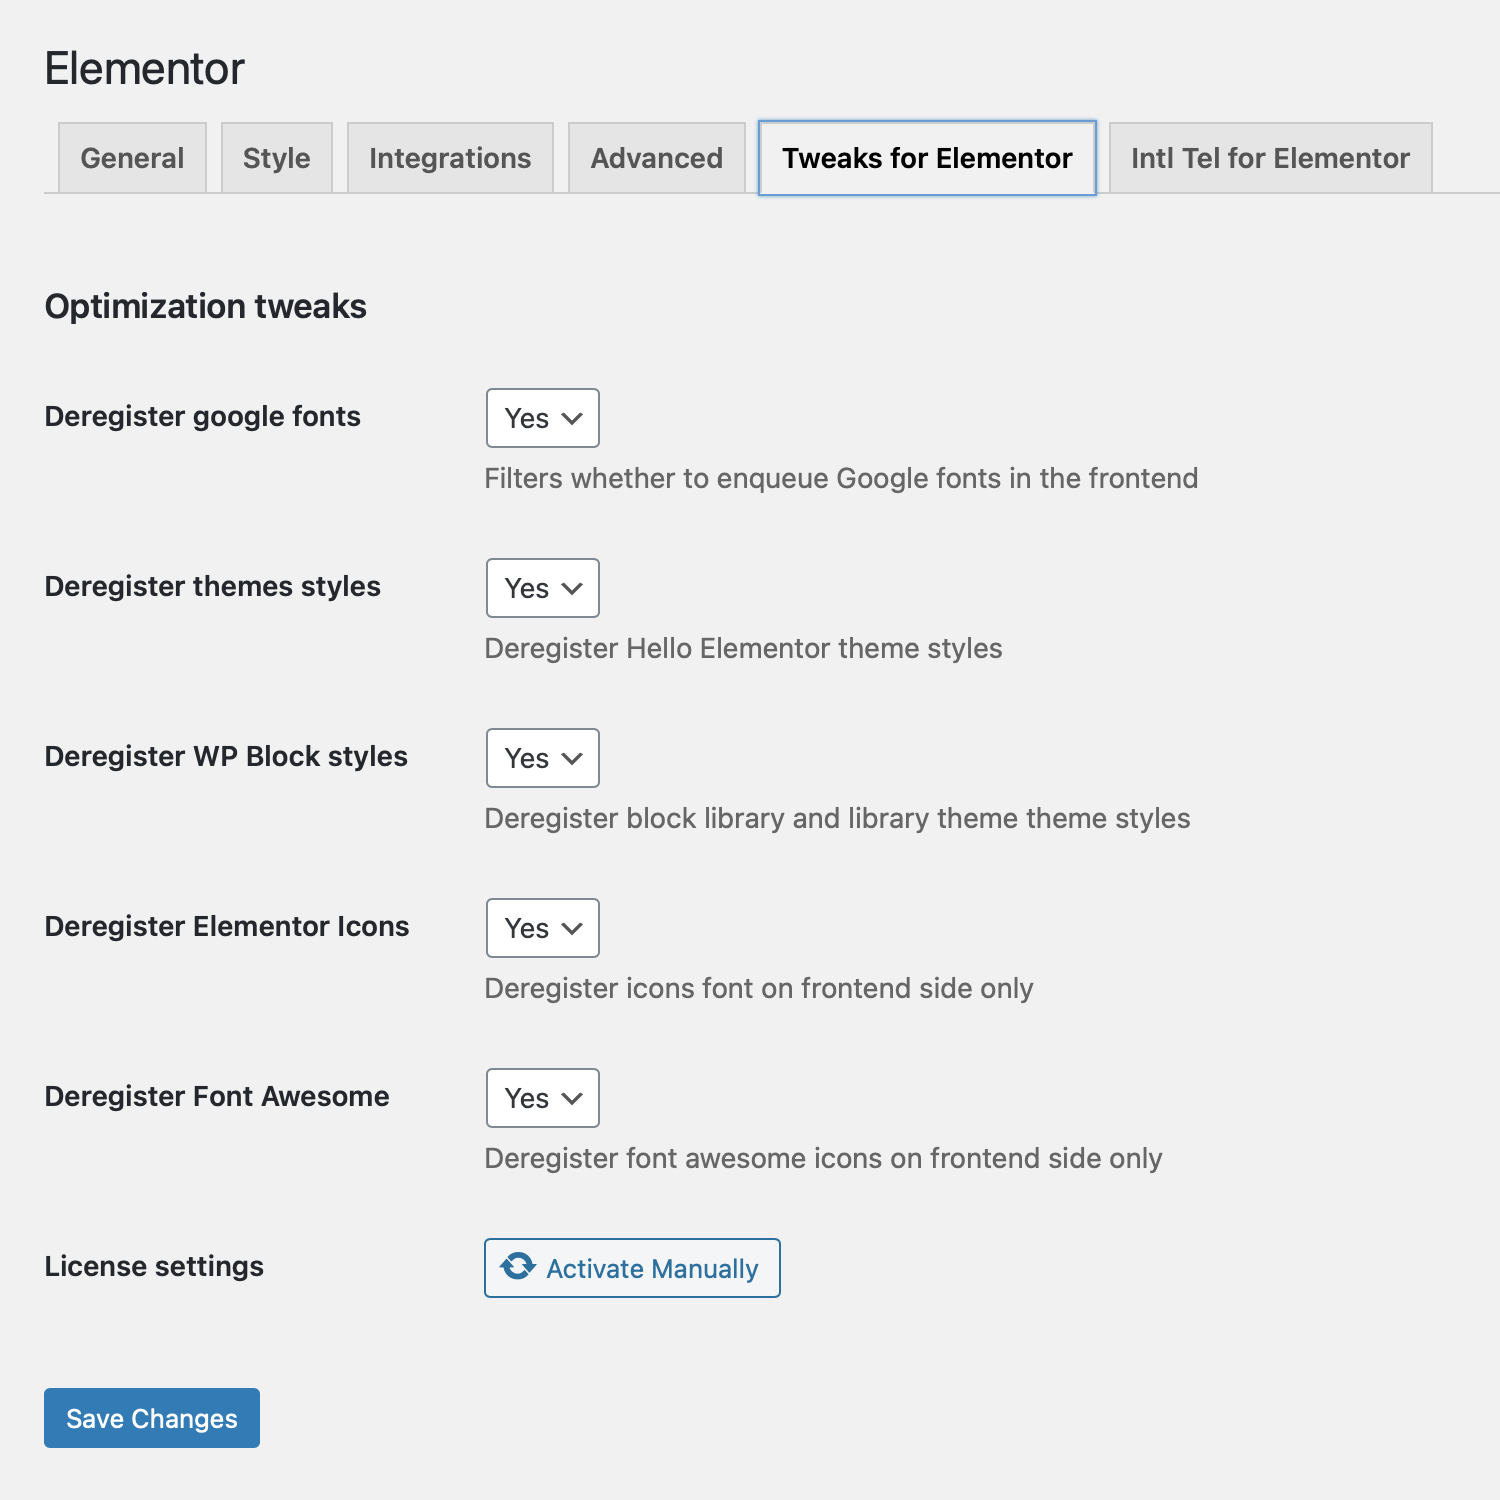
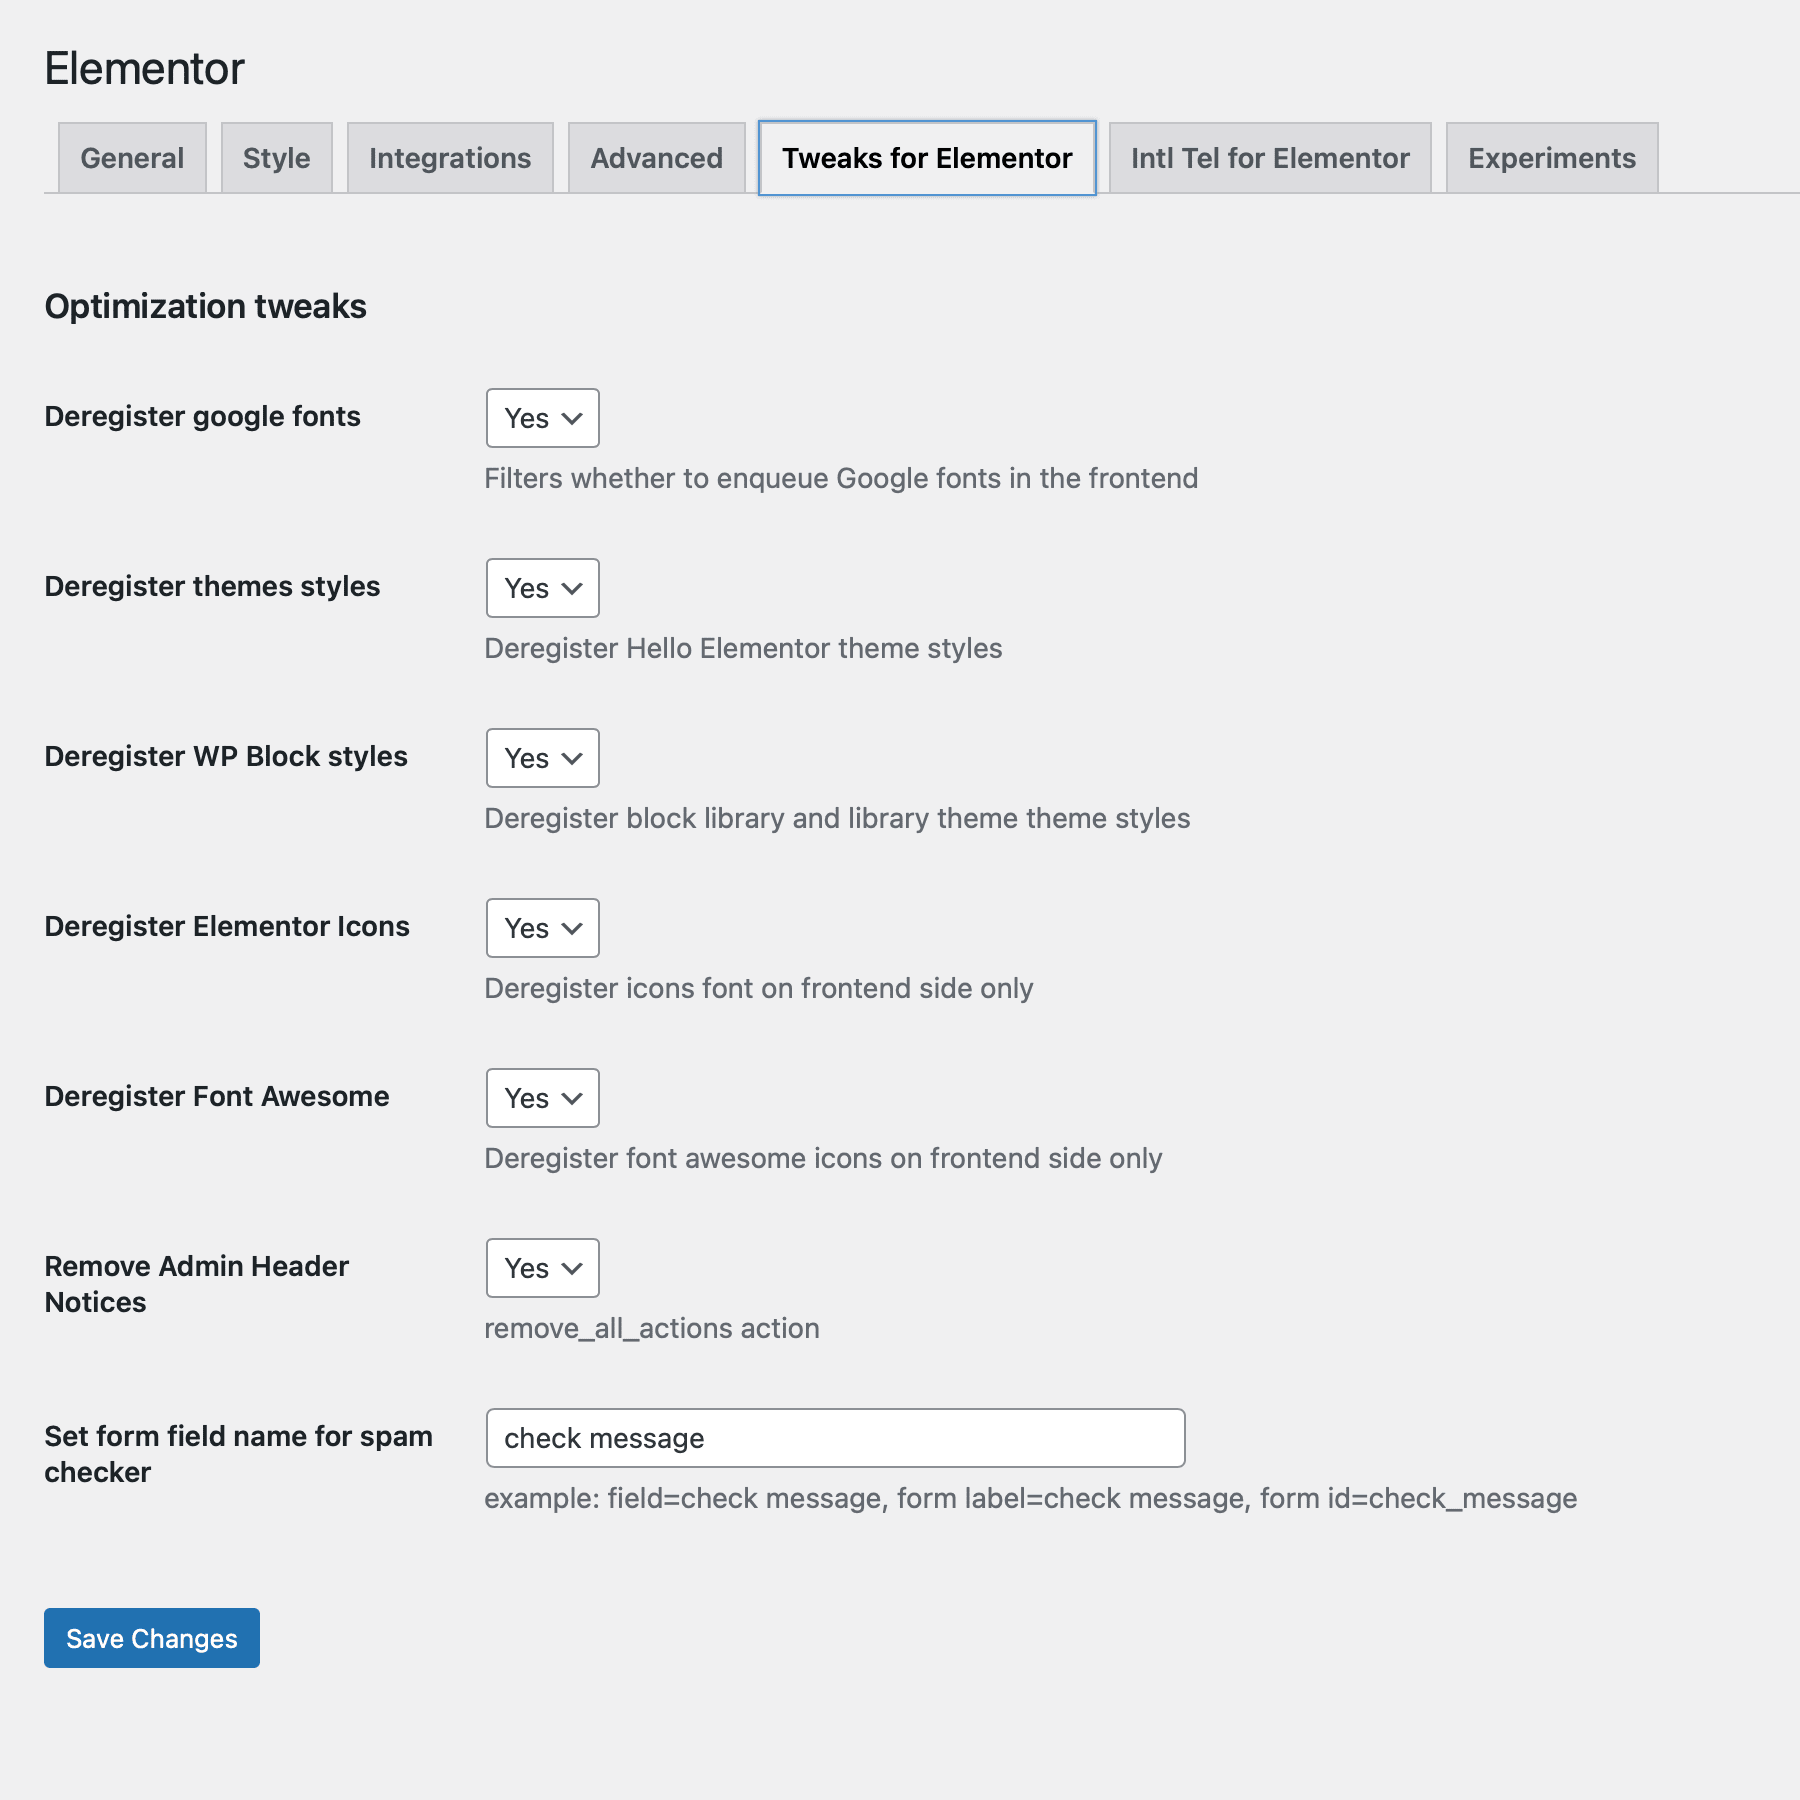
chore--plugin--release * New: Spam checker with mail skipping * New: Hide admin header notices * Tweak: License option removed from the settings

diff --git a/includes/class-options.php b/includes/class-options.php
@@ -48,7 +48,7 @@ class Options {
 					WPBRO_TWEAKS_FOR_ELEMENTOR_SLUG . '_optimization' => array(
 						'label'  => __( 'Optimization tweaks', 'tweaks-for-elementor' ),
 						'fields' => array(
-							WPBRO_TWEAKS_FOR_ELEMENTOR_SLUG . '_google_fonts' => array(
+							WPBRO_TWEAKS_FOR_ELEMENTOR_SLUG . '_google_fonts'    => array(
 								'label'      => __( 'Deregister google fonts', 'tweaks-for-elementor' ),
 								'field_args' => array(
 									'desc'    => __( 'Filters whether to enqueue Google fonts in the frontend', 'tweaks-for-elementor' ),
@@ -59,7 +59,7 @@ class Options {
 									),
 								),
 							),
-							WPBRO_TWEAKS_FOR_ELEMENTOR_SLUG . '_hello_theme'  => array(
+							WPBRO_TWEAKS_FOR_ELEMENTOR_SLUG . '_hello_theme'     => array(
 								'label'      => __( 'Deregister themes styles', 'tweaks-for-elementor' ),
 								'field_args' => array(
 									'desc'    => __( 'Deregister Hello Elementor theme styles', 'tweaks-for-elementor' ),
@@ -70,7 +70,7 @@ class Options {
 									),
 								),
 							),
-							WPBRO_TWEAKS_FOR_ELEMENTOR_SLUG . '_wp_block'     => array(
+							WPBRO_TWEAKS_FOR_ELEMENTOR_SLUG . '_wp_block'        => array(
 								'label'      => __( 'Deregister WP Block styles', 'tweaks-for-elementor' ),
 								'field_args' => array(
 									'desc'    => __( 'Deregister block library and library theme theme styles', 'tweaks-for-elementor' ),
@@ -81,7 +81,7 @@ class Options {
 									),
 								),
 							),
-							WPBRO_TWEAKS_FOR_ELEMENTOR_SLUG . '_elementor_icons'     => array(
+							WPBRO_TWEAKS_FOR_ELEMENTOR_SLUG . '_elementor_icons' => array(
 								'label'      => __( 'Deregister Elementor Icons', 'tweaks-for-elementor' ),
 								'field_args' => array(
 									'desc'    => __( 'Deregister icons font on frontend side only', 'tweaks-for-elementor' ),
@@ -92,7 +92,7 @@ class Options {
 									),
 								),
 							),
-							WPBRO_TWEAKS_FOR_ELEMENTOR_SLUG . '_fa_icons'     => array(
+							WPBRO_TWEAKS_FOR_ELEMENTOR_SLUG . '_fa_icons'        => array(
 								'label'      => __( 'Deregister Font Awesome', 'tweaks-for-elementor' ),
 								'field_args' => array(
 									'desc'    => __( 'Deregister font awesome icons on frontend side only', 'tweaks-for-elementor' ),
@@ -103,7 +103,7 @@ class Options {
 									),
 								),
 							),
-							WPBRO_TWEAKS_FOR_ELEMENTOR_SLUG . '_admin_notices'     => array(
+							WPBRO_TWEAKS_FOR_ELEMENTOR_SLUG . '_admin_notices'   => array(
 								'label'      => __( 'Remove Admin Header Notices', 'tweaks-for-elementor' ),
 								'field_args' => array(
 									'desc'    => __( 'remove_all_actions action', 'tweaks-for-elementor' ),
@@ -112,6 +112,13 @@ class Options {
 										''     => __( 'No', 'tweaks-for-elementor' ),
 										'true' => __( 'Yes', 'tweaks-for-elementor' ),
 									),
+								),
+							),
+							WPBRO_TWEAKS_FOR_ELEMENTOR_SLUG . '_antispam_field'  => array(
+								'label'      => __( 'Set form field name for spam checker', 'tweaks-for-elementor' ),
+								'field_args' => array(
+									'desc' => __( 'example: field=check message, form label=check message, form id=check_message', 'tweaks-for-elementor' ),
+									'type' => 'text',
 								),
 							),
 						),
@@ -128,14 +135,14 @@ class Options {
 					$key_intl . '_intl_settings' => array(
 						'label'  => __( 'Intl Settings', 'tweaks-for-elementor' ),
 						'fields' => array(
-							$key_intl . '_ip_info_api_key'   => array(
+							$key_intl . '_ip_info_api_key'           => array(
 								'label'      => __( 'Ipinfo API key', 'tweaks-for-elementor' ),
 								'field_args' => array(
 									'desc' => __( 'Key for <a href="https://ipinfo.io/" target="_blank" rel="nofollow">Ipinfo API</a>', 'tweaks-for-elementor' ),
 									'type' => 'text',
 								),
 							),
-							$key_intl . '_custom_country_id' => array(
+							$key_intl . '_custom_country_id'         => array(
 								'label'      => __( 'Custom country ID <br><small>(will override IP detected)</small>', 'tweaks-for-elementor' ),
 								'field_args' => array(
 									'desc' => __( 'Country Lang Code, e.g. US. More info <a href="https://en.wikipedia.org/wiki/ISO_3166-1_alpha-2#Officially_assigned_code_elements" target="_blank" rel="nofollow">here</a>', 'tweaks-for-elementor' ),

diff --git a/includes/class-main.php b/includes/class-main.php
@@ -61,8 +61,9 @@ class Main {
 	 * Deregister styles via filters.
 	 */
 	public function tweak_filters() {
-		$google_fonts = $this->get_option( 'google_fonts' );
-		$hello_theme  = $this->get_option( 'hello_theme' );
+		$google_fonts   = $this->get_option( 'google_fonts' );
+		$hello_theme    = $this->get_option( 'hello_theme' );
+		$antispam_field = $this->get_option( 'antispam_field' );
 
 		if ( $google_fonts ) {
 			/**
@@ -86,14 +87,24 @@ class Main {
 			add_filter( 'hello_elementor_enqueue_style', '__return_false' );
 			add_filter( 'hello_elementor_enqueue_theme_style', '__return_false' );
 		}
+
+		if ( $antispam_field ) {
+			/**
+			 * Skip email if spam field value exist
+			 *
+			 * @since 1.0.4
+			 */
+			add_filter( 'pre_wp_mail', array( $this, 'tweak_antispam' ), 10, 2 );
+		}
 	}
 
 	/**
 	 * Dequeue styles and scripts.
 	 */
 	public function tweak_enqueue_scripts() {
-		$wp_block = $this->get_option( 'wp_block' );
-		$hello_theme  = $this->get_option( 'hello_theme' );
+		$wp_block    = $this->get_option( 'wp_block' );
+		$hello_theme = $this->get_option( 'hello_theme' );
+		$spam_field  = $this->get_option( 'antispam_field' );
 
 		if ( $wp_block ) {
 			/**
@@ -137,11 +148,23 @@ class Main {
 			wp_add_inline_style( 'elementor-frontend', 'body{margin:0}' );
 		}
 
-		$api_key    = $this->get_option( 'intl_ip_info_api_key' );
-		$country_id = $this->get_option( 'intl_custom_country_id' );
+		if ( $spam_field ) {
+			/**
+			 * Inline css for spam field visibility
+			 *
+			 * @since 1.0.4
+			 * @access public
+			 */
+			$spam_css   = '{display:none!important}';
+			$spam_class = '.elementor-field-group-' . str_replace( ' ', '_', $spam_field );
+			wp_add_inline_style( 'elementor-frontend', $spam_class . $spam_css );
+		}
+
+		$api_key       = $this->get_option( 'intl_ip_info_api_key' );
+		$country_id    = $this->get_option( 'intl_custom_country_id' );
 		$country_field = $this->get_option( 'intl_custom_country_field_name' );
 
-		$data       = [];
+		$data = [];
 		if ( ! empty( $api_key ) or ! empty( $country_id ) ) {
 			/**
 			 * Register styles if !empty options intl_ip_info_api_key or intl_custom_country_id
@@ -203,6 +226,38 @@ class Main {
 			foreach ( array( 'solid', 'regular', 'brands' ) as $style ) {
 				wp_deregister_style( 'elementor-icons-fa-' . $style );
 			}
+		}
+	}
+
+	/**
+	 * Check if spam message exist and skip wp_mail()
+	 *
+	 * @param $null
+	 * @param array $wp_mail_input
+	 *
+	 * @return bool|mixed
+	 * @since 1.0.4
+	 */
+	public function tweak_antispam( $null, array $wp_mail_input ) {
+		$spam_field = $this->get_option( 'antispam_field' );
+		$spam_check = '';
+
+		// Parse email content by break line
+		$email_content = explode( '<br>', $wp_mail_input['message'] );
+
+		if ( strpos( $wp_mail_input['message'], $spam_field ) !== false ) {
+			foreach ( $email_content as $field ) {
+				if ( strpos( $field, $spam_field ) !== false ) {
+					$spam_value = explode( $spam_field . ':', $field );
+					$spam_check = trim( $spam_value[1] );
+				}
+			}
+		}
+
+		if ( $spam_check ) {
+			return true;
+		} else {
+			return $null;
 		}
 	}
 }

diff --git a/tweaks-for-elementor.php b/tweaks-for-elementor.php
@@ -9,7 +9,7 @@
  * Plugin Name:       Tweaks for Elementor
  * Plugin URI:        https://wordpress.org/plugins/tweaks-for-elementor/
  * Description:       Tweaks for Elementor is simple plugin with few features to disable the default Fonts and CSS files of Elementor and Hello Elementor Theme
- * Version:           1.0.3
+ * Version:           1.0.4
  * Author:            WPBRO - Dima Minka
  * Author URI:        https://wpbro.ru
  * License:           GPL-2.0+
@@ -23,7 +23,7 @@ if ( ! defined( 'WPINC' ) ) {
 	die;
 }
 
-define( 'WPBRO_TWEAKS_FOR_ELEMENTOR_VERSION', '1.0.3' );
+define( 'WPBRO_TWEAKS_FOR_ELEMENTOR_VERSION', '1.0.4' );
 define( 'WPBRO_TWEAKS_FOR_ELEMENTOR_SLUG', 'Tweaks_For_Elementor' );
 define( 'WPBRO_TWEAKS_FOR_ELEMENTOR_FILE', __FILE__ );
 define( 'WPBRO_TWEAKS_FOR_ELEMENTOR_BASE', plugin_basename( __FILE__ ) );

diff --git a/README.md b/README.md
@@ -2,9 +2,9 @@
 - Contributors: CDK Comp, mihdan
 - Donate link: https://www.paypal.me/cdkdev
 - Tags: elementor, seo, optimization, speed, design, tweaks, intl-tel
-- Requires at least: 5.0
-- Tested up to: 5.4.1
-- Stable tag: 1.0.3
+- Requires at least: 5.7
+- Tested up to: 5.8
+- Stable tag: 1.0.4
 - Requires PHP: 5.6.20
 - License: GPLv2 or later
 - License URI: https://www.gnu.org/licenses/gpl-2.0.html
@@ -45,6 +45,11 @@ Tweaks for Elementor is simple plugin with few features to disable the default F
 ![screenshoot-2](./assets/screenshot-2.png)
 
 ### Changelog
+
+##### 1.0.4 (30.07.2021)
+* New: Spam checker with mail skipping
+* New: Hide admin header notices
+* Tweak: License option removed from the settings
 
 ##### 1.0.3 (18.10.2020)
 * New: country code custom field supporting
